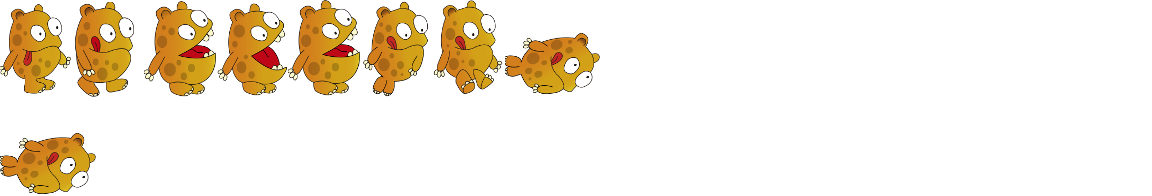
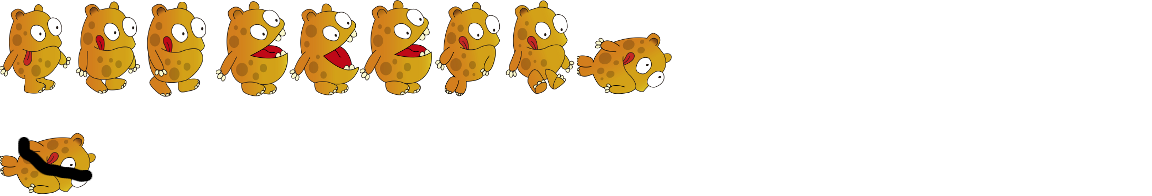
juego con fondo

Changed region(s): [[0.0625, 0.0, 0.5938, 0.4898], [0.0, 0.7041, 0.0938, 0.949]]

diff --git a/Documentación/webRunner/runner.js b/Documentación/webRunner/runner.js
@@ -14,6 +14,8 @@ var infoNativo = (function(){
 
 window.addEventListener("load",function() {
 
+
+
 var Q = window.Q = Quintus()
         .include("Sprites, Scenes, Input, 2D, Anim, Touch, UI")
         .setup({ width: 683, height: 384, scaleToFit: true })
@@ -21,11 +23,11 @@ var Q = window.Q = Quintus()
[1 lines of base64/hex data omitted]
   Q.UI.Text.extend("Score",{
     init:function(p){
-      this._super({label:"Distance: 0m",x:600,y:0});
+      this._super({label:"Distancia: 0m",x:600,y:0});
       Q.state.on("change.score",this,"score");
     },
     score: function(score){
-      this.p.label="Distance: " + score + "m";
+      this.p.label="Distancia: " + score + "m";
     }
   });
 
@@ -40,7 +42,7 @@ var Q = window.Q = Quintus()
 
   Q.UI.Text.extend("Coins",{
     init:function(p){
-      this._super({label:"Coins: " + infoNativo.coins,x:615,y:30});
+      this._super({ label:"Coins: " + infoNativo.coins,x:615,y:30});
       Q.state.on("change.coins",this,"coins");
     },
     coins: function(coins){
@@ -71,18 +73,24 @@ Q.Sprite.extend("Player",{
       releaseJump: false,
       x: 40,
       shield: false,
-      y: 559,
+      y: 610,
+      scale: 0.8,
       standingPoints: [ [ -16, 44], [ -23, 35 ], [-23,-48], [23,-48], [23, 35 ], [ 16, 44 ]],
       duckingPoints : [ [ -16, 44], [ -23, 35 ], [-23,-10], [23,-10], [23, 35 ], [ 16, 44 ]],
       speed: 500,
-      jump: -600,
+      jump: -550,
       stopped: false,
+      dead: false,
       distance: 0,
     });
 
     this.p.points = this.p.standingPoints;
     this.add("2d, animation");
     this.play("walk");
+  },
+
+  dead: function(){
+    this.p.dead = true;
   },
 
   stopped: function(){
@@ -97,8 +105,9 @@ Q.Sprite.extend("Player",{
   },
   step: function(dt) {
    
+   if(!this.p.dead){
     this.p.vx += (this.p.speed - this.p.vx)/4;
-    console.log(this.p.distance);
+    //console.log(this.p.distance);
     if(this.p.speed - this.p.vx < 3 ){
       this.p.distance += 1;
       if(this.p.distance == 100){
@@ -110,12 +119,12 @@ Q.Sprite.extend("Player",{
       this.p.stopped = true;
     }
 
-    if(this.p.vy == 0)
-      console.log("aire");
+    //if(this.p.vy == 0)
+      //console.log("aire");
 
-    if(this.p.y > 559 || this.p.vy == 0 ) {
-      if(this.p.y > 559)
-        this.p.y = 559; 
+    if(this.p.y > 610 || this.p.vy == 0 ) {
+      if(this.p.y > 610)
+        this.p.y = 610; 
       this.p.landed = 1;
       this.p.vy = 0;
     } else {
@@ -140,13 +149,15 @@ Q.Sprite.extend("Player",{
       this.p.doubleJump = true;
       this.p.releaseJump = false;
       if(Q.inputs['down'] && this.p.animation != "eat") {
-        this.p.w = 98;
         console.log(this);
-        this.play("down");
+        this.p.sprite = "agachado";
+        this.play("agachado");
+        //this.size(true);
         this.p.points = this.p.duckingPoints;
       } else {
+        this.p.sprite = "eater";
         if(this.p.animation != "eat")
-        this.play("walk");
+          this.play("walk");
       }
     } else {
       if(!Q.inputs['up']){
@@ -161,7 +172,7 @@ Q.Sprite.extend("Player",{
     }
 
     this.stage.viewport.centerOn(this.p.x + 175, 500 );
-
+  }
   }
 });
 
@@ -178,13 +189,14 @@ Q.Sprite.extend("Mina",{
     //var levels = [ 565, 540, 500, 450 ];
     var player = Q("Player").first();
     this._super({
+      player : Q("Player").first(),
       x: player.p.x + Q.width + 50,
       y: levels[Math.floor(Math.random() * 3)],
       frame: Math.random() < 0.5 ? 0 : 0,//<------------------
       scale: 1.2,
       type: SPRITE_BOX,
       sheet: "mina",
-      vx: -100 + 200 * Math.random(),
+      vx: 50,
       vy: 0,
       ay: 0,
       theta: (300 * Math.random() + 200) * (Math.random() < 0.5 ? 1 : -1)
@@ -202,10 +214,15 @@ Q.Sprite.extend("Mina",{
     if(this.p.y != 565) {
       this.p.angle += this.p.theta * dt;
     }
-    if(this.p.y > 800) { this.destroy(); }
+    if(this.p.y > 800 || this.p.x < this.p.player.p.x - 200) { console.log("BYE");this.destroy(); }
+
   },
-  hit: function() {
-    if(this.p.type != 0){
+  hit: function(collision) {
+    var player = collision.obj;
+    if(this.p.type != 0 && player.isA("Player")){
+      player.p.vx = 0;
+      player.dead();
+      Q.stageScene("endGame", 1, { label: "Game Over!" });
       this.p.type = 0;
       console.log("colision");
       this.p.collisionMask = Q.SPRITE_NONE;
@@ -289,27 +306,28 @@ Q.Sprite.extend("BoxGood",{
 
 
 Q.Sprite.extend("BoxFija",{
-  init: function(tipo) {
+  init: function(posX, posY) {
 
     var levels = [ 573 , 515 , 509 ];
 
     var player = Q("Player").first();
     this._super({
+      player: Q("Player").first(),
       touched: false,
       x: player.p.x + Q.width + 50,
-      y: tipo == "doble" ? 517  : 573,
+      y: 573 - (50 * posY),
       //frame: Math.random() < 0.5 ? 1 : 0,
-      scale: 0.9,
+      scale: 0.8,
       type: SPRITE_BOX,
       sheet: "cajaBuena",
       vx: 50,
       vy: 0,
       ay: 0,
     });
-
+    this.p.x += this.p.w * this.p.scale * posX;
     this.add("animation, tween");
 
-    this.on("hit", this, "sensor");
+    //this.on("hit", this, "sensor");
 
     //this.add("animation, tween");
   },
@@ -321,7 +339,7 @@ Q.Sprite.extend("BoxFija",{
     this.p.vy += this.p.ay * dt;
     this.p.y += this.p.vy * dt;
     
-    if(this.p.y > 800) { this.destroy(); }
+    if(this.p.y > 800 || this.p.x < this.p.player.p.x - 200) { console.log("BYE");this.destroy(); }
 
   },
 
@@ -364,7 +382,7 @@ Q.Sprite.extend("Ameba",{
       //y: tipo == "doble" ? 515  : 573,
       y: player.p.y,
       //frame: Math.random() < 0.5 ? 1 : 0,
-      scale: 1.3,
+      scale: 1.1,
       type: 0,
       opacity: 0.4,
       sheet: "ameba",
@@ -431,6 +449,8 @@ Q.Sprite.extend("Escudo",{
 
     var player = Q("Player").first();
     this._super({
+
+      player: Q("Player").first(),
       touched: false,
       x: player.p.x + Q.width + 50,
       y: 509,
@@ -465,14 +485,17 @@ Q.Sprite.extend("Escudo",{
 
     this.p.vy += this.p.ay * dt;
     this.p.y += this.p.vy * dt;
-    
-    if(this.p.y > 800) { this.destroy(); }
+
+
+    if(this.p.y > 800 || this.p.x < this.p.player.p.x - 200) { console.log("BYE");this.destroy(); }
+
 
   },
 
   sensor: function(collision) {
     var playerObj = collision.obj;
     if(!this.p.touched && playerObj.isA("Player")){
+      playerObj.play("eat");
       this.p.touched = true;
       if(!playerObj.p.shield){
         this.stage.insert(new Q.Ameba());
@@ -587,7 +610,7 @@ Q.GameObject.extend("BoxThrower",{
       player: null,
       launchDelay: 0.75,
       launchRandom: 1,
-      launch: 2
+      launch: 1
     }
   },
 
@@ -602,8 +625,11 @@ Q.GameObject.extend("BoxThrower",{
       if(this.p.launch < 0 ) {
           
         if(Math.floor(Math.random()*2)===1){
-          this.stage.insert(new Q.BoxFija("doble"));
-          this.stage.insert(new Q.BoxFija());
+          //this.stage.insert(new Q.BoxFija("doble"));
+          this.stage.insert(new Q.Escudo());
+          this.stage.insert(new Q.BoxFija(1,1));
+          this.stage.insert(new Q.BoxFija(2,1));
+          this.stage.insert(new Q.BoxFija(3,1));
           this.p.launch = this.p.launchDelay + this.p.launchRandom * Math.random();
         }else{
           this.stage.insert(new Q.Mina());
@@ -627,19 +653,24 @@ Q.GameObject.extend("BoxThrower",{
 
   Q.scene('endGame',function(stage) {
     var box = stage.insert(new Q.UI.Container({
-      x: Q.width/2, y: Q.height/2, fill: "rgba(0,0,0,0.5)"
+      x: Q.width/2, y: Q.height/2, fill: "rgba(0, 95, 154, 0.5)"
     }));
     
+    var buttonPlay = box.insert(new Q.UI.Button({ x: 0, y: -65, fill: "#CCCCCC",
+                                            fill: "rgba(0, 95, 154, 0)",
+                                             asset: "muerto.png" }))  
+
     var buttonPlay = box.insert(new Q.UI.Button({ x: 0, y: 0, fill: "#CCCCCC",
-                                             label: "Play Again" }))  
-    var buttonExit = box.insert(new Q.UI.Button({ x: 0, y: 0, fill: "#CCCCCC",
-                                             label: "Play Again" }))         
-    var label = box.insert(new Q.UI.Text({x:10, y: -10 - button.p.h, 
+                                             label: "Jugar" }))  
+    var buttonExit = box.insert(new Q.UI.Button({ x: 0, y: 50, fill: "#CCCCCC",
+                                             label: " Salir " }))         
+    var label = box.insert(new Q.UI.Text({x:0, y: -90 - buttonExit.p.h, 
                                           label: stage.options.label }));
     buttonPlay.on("click",function() {
-      Q.audio.stop();
       Q.clearStages();
       Q.stageScene('level1');
+      Q.stageScene("HUD", 1);
+      Q.stageScene("HUDCoins", 2);
     });
     buttonExit.on("click", function(){
       Q.clearStages();
@@ -650,14 +681,17 @@ Q.GameObject.extend("BoxThrower",{
 
 Q.scene("level1",function(stage) {
 
-  stage.insert(new Q.Repeater({ asset: "background-wall.png",
-                                speedX: 0.5 }));
-
+  stage.insert(new Q.Repeater({ asset: "fondo.jpg",
+                                speedX: 0.5,
+                                repeatY: false,
+                                y: 90           
+                                }));
+/*
   stage.insert(new Q.Repeater({ asset: "suelo.png",
                                 repeatY: false,
                                 speedX: 1.0,
-                                y: 300 }));
-
+                                y: 0 }));
+*/
   stage.insert(new Q.BoxThrower());
 
   stage.insert(new Q.Player());
@@ -666,7 +700,7 @@ Q.scene("level1",function(stage) {
 
 });
   
-Q.load("coin.png, coin.json, escudo.png, escudo.json, ameba.png, ameba.json, cajaRota.png, cajaRota.json, mina.png, mina.json, eater.json, eater.png, player.json, player.png, background-wall.png, suelo.png, crates.png, crates.json, cajaBuena.png, cajaBuena.json", function() {
+Q.load("fondo.jpg, snow.png, agachado.png, agachado.json, muerto.png, coin.png, coin.json, escudo.png, escudo.json, ameba.png, ameba.json, cajaRota.png, cajaRota.json, mina.png, mina.json, eater.json, eater.png, player.json, player.png, background-wall.png, crates.png, crates.json, cajaBuena.png, cajaBuena.json", function() {
     Q.compileSheets("player.png","player.json");
     Q.compileSheets("crates.png","crates.json");
     Q.compileSheets("cajaBuena.png","cajaBuena.json");
@@ -676,15 +710,19 @@ Q.load("coin.png, coin.json, escudo.png, escudo.json, ameba.png, ameba.json, caj
     Q.compileSheets("ameba.png", "ameba.json");
     Q.compileSheets("escudo.png", "escudo.json");
     Q.compileSheets("coin.png", "coin.json");
+    Q.compileSheets("agachado.png", "agachado.json");
 
     Q.animations("eater", {
-      walk: { frames: [0,1], rate: 1/4, flip: false, loop: true },
-      eat: { frames: [2,3,4], rate: 1/4, flip: false, next: "walk" },
-      jump_up: { frames: [5] },
-      jump_down: { frames: [6] },
-      down: { frames: [7] },
+      walk: { frames: [0,1,2,1], rate: 1/5, flip: false, loop: true },
+      eat: { frames: [3,4,5], rate: 1/4, flip: false, next: "walk" },
+      jump_up: { frames: [6] },
+      jump_down: { frames: [7] },
+      down: { frames: [8] },
     });
 
+    Q.animations("agachado", {
+      agachado: { frames: [0] },
+    })
     Q.animations("escudo", {
       escudo: { frames: [0] }
     });
@@ -700,8 +738,8 @@ Q.load("coin.png, coin.json, escudo.png, escudo.json, ameba.png, ameba.json, caj
       duck_right: { frames: [15], rate: 1/10, flip: false },
     });
     Q.stageScene("level1");
-    Q.stageScene("HUD", 1);
-    Q.stageScene("HUDCoins", 2);
+    Q.stageScene("HUD", 2);
+    Q.stageScene("HUDCoins", 3);
   
 });
 

diff --git a/Documentación/webRunner/index.html b/Documentación/webRunner/index.html
@@ -4,7 +4,7 @@
 <meta charset="UTF-8">
 
 <meta name="viewport" content="width=device-width, user-scalable=0, minimum-scale=1.0, maximum-scale=1.0"/>
-<title>Platformer Example</title>
+<title>Box Runner</title>
 
 <script src='lib/quintus.js'></script>
 <script src='lib/quintus_sprites.js'></script>
